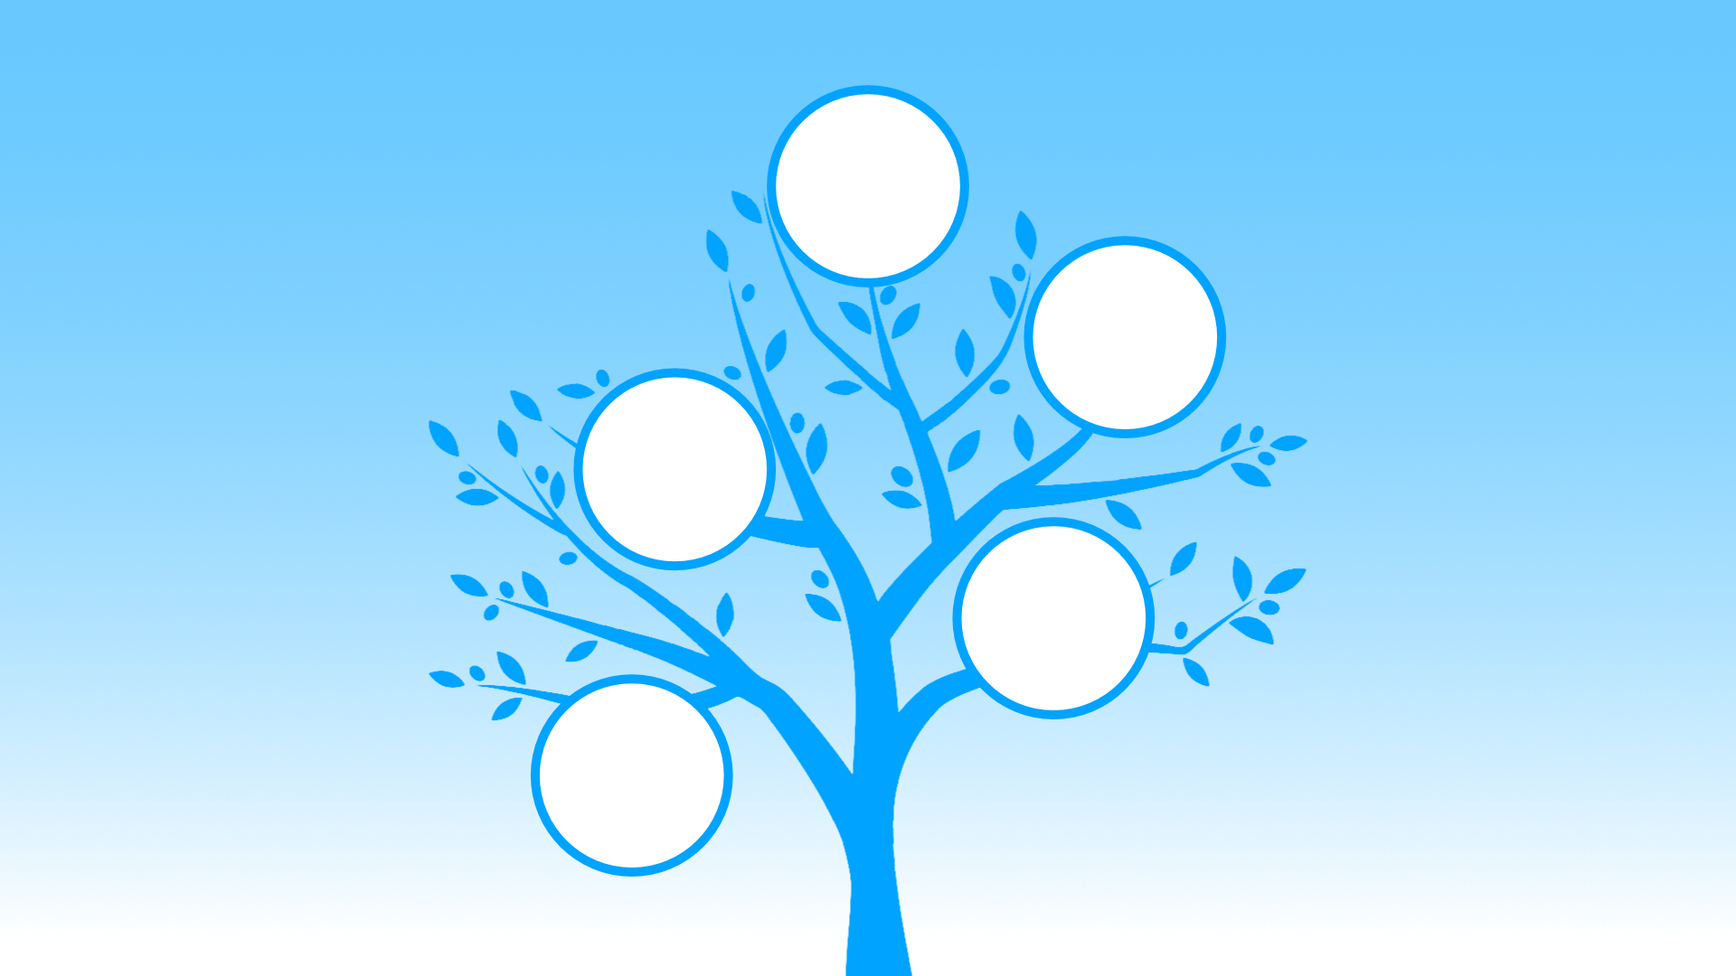
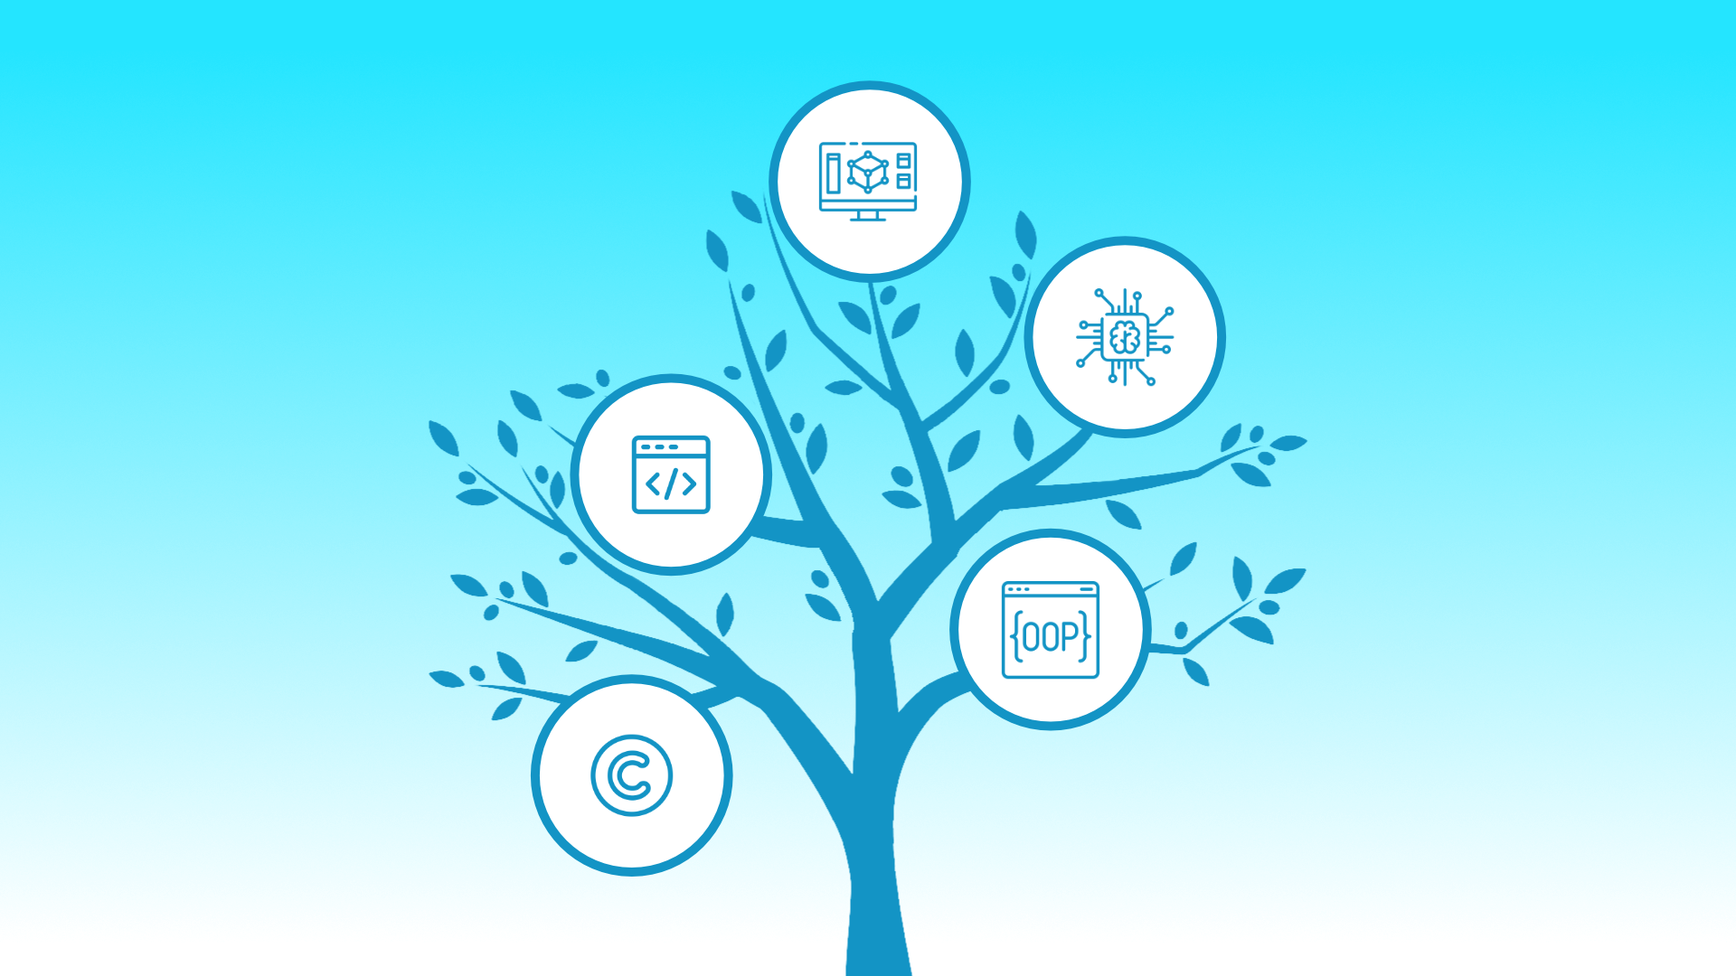
3
+frontpage -png
+computermodelling -cyber_secur

diff --git a/pages/computer_modelling.html b/pages/computer_modelling.html
@@ -1,0 +1,116 @@
+<!DOCTYPE html>
+<html lang="en">
+<head>
+	<meta charset="UTF-8">
+	<meta name="viewport" content="width=device-width, initial-scale=1.0">
+	<link rel="stylesheet" type="text/css" href="styles/2nd_floor.css">
+	<title>Cyber-security</title>
+</head>
+<body>
+	<div class="container">
+		
+		<button class="btn" onclick="document.getElementById('inf1').style.display='block';">
+			<h2>Модели и формы их представления</h2>
+		</button>
+
+		<div id="inf1" class="inf">
+			<p class="txt">
+				Модель – объект или процесс, который для различных целей рассматривается вместо другого объекта или процесса. На данный момент широко распространены компьютерные модели, представляющие собой информационную модель в виде файла на компьютерном носителе и ее изображение на экране компьютера. <br>
+				Создание и использование моделей для решения научных и практических задач называется моделированием.
+			</p>
+
+			<button class="btn1" onclick="document.getElementById('inf1').style.display='none';">Свернуть</button>
+		</div>
+
+		<button class="btn" onclick="document.getElementById('inf2').style.display='block';">
+			<h2>Цели компьютерного моделирования</h2>
+		</button>
+
+		<div id="inf2" class="inf">
+			
+			<img src="styles/img/Цели_компьютерного_моделирования.PNG" alt=""  class="im">
+
+			<button class="btn1" onclick="document.getElementById('inf2').style.display='none';">Свернуть</button>
+		</div>
+
+		<button class="btn" onclick="document.getElementById('inf3').style.display='block';">
+			<h2>Современное моделирование</h2>
+		</button>
+
+		<div id="inf3" class="inf">
+			<p class="txt">
+				В современном моделировании реализуется системных подход, состоящий в том, что моделируемый объект представляется в модели как система, т.е. совокупности объектов. Элементы системы могут быть естественными (существующие и просто выделяемые) и искусственными объектами (несуществующие условные единицы). <br>
+				Математическая модель системы называется динамической, если она учитывает изменение времени. 
+			</p>
+
+			<button class="btn1" onclick="document.getElementById('inf3').style.display='none';">Свернуть</button>
+		</div>
+
+		<button class="btn" onclick="document.getElementById('inf4').style.display='block';">
+			<h2>Элементы построения динамических моделей систем</h2>
+		</button>
+
+		<div id="inf4" class="inf">
+			
+			<img src="styles/img/Элемент_построения_динамических_моделей_систем.PNG" alt=""  class="im">
+
+			<button class="btn1" onclick="document.getElementById('inf4').style.display='none';">Свернуть</button>
+		</div>
+
+		<button class="btn" onclick="document.getElementById('inf5').style.display='block';">
+			<h2>Метод Монте-Карло</h2>
+		</button>
+
+		<div id="inf5" class="inf">
+			<p class="txt">
+				Метод Монте-Карло, названный в честь одного из самых знаменитых казино мира, основан на использовании генератора случайных чисел. Также значения генераторов случайных чисел называют псевдослучайными числами, поскольку получены они были посредством строгих математических методов и, следовательно, они являются предсказуемыми. 
+				<br>
+				На языке PascalABC генератор случайных чисел реализован в стандартной функции random(). 
+				<br>
+				В электронных таблицах MS Excel генератор случайных чисел реализован в функциях СЛЧИС() и СЛУЧМЕЖДУ(). 
+				<br>
+				Рассмотреть метод Монте-Карло на примере задачи определения площади некоторой плоской фигуры.
+				<br>
+				Пусть имеется плоская фигура, которая находится внутри прямоугольника (будем называть его базовым) с известной площадью S. Засыпем мысленно прямоугольник тончайшем слоем песка. Если подсчитать общее число песчинок n и число k тех песчинок, которые попали на фигуру, то приближенно площадь фигуры можно считать по формуле C = S * k : n, где С – площадь фигуры. 
+				<br>
+				Таким образом метод Монте-Карло освобождает нас от необходимости самим разбрасывать и подсчитывать песчинки. 
+			</p>
+
+			<button class="btn1" onclick="document.getElementById('inf5').style.display='none';">Свернуть</button>
+		</div>
+
+		<button class="btn" onclick="document.getElementById('inf6').style.display='block';">
+			<h2>Моделирование динамики численности популяций</h2>
+		</button>
+
+		<div id="inf6" class="inf">
+			<p class="txt">
+				Для описания динамики численности популяций ученые используют несколько математических моделей. Для двух популяций используются модели взаимодействия двух видов. Среди них модель «хищник-жертва», модель конкуренции двух видов за ресурсы питания, модели взаимовыгодного взаимодействия (симбиоза).
+			</p>
+
+			<img src="styles/img/Моделирование_динамики_численности.png" alt=""  class="im">
+
+			<div class="list">			
+				<ul class="sp">
+					<li class="el">a — коэффициент естественного прироста (a > 0)</li>
+					<li class="el">b — коэффициент смертности жертв от внутривидовой конкуренции (b > 0)</li>
+					<li class="el">c — коэффициент смертности жертв от хищников (c > 0)</li>
+					<li class="el">d — коэффициент смертности хищников (d > 0)</li>
+					<li class="el">f — коэффициент, определяющий прирост численности хищников (f > 0)</li>
+					<li class="el">L — критическая популяция </li>
+					<li class="el">Z — количество отловленных особей</li>
+				</ul> 
+			</div>
+
+			<button class="btn1" onclick="document.getElementById('inf6').style.display='none';">Свернуть</button>
+		</div>
+
+		<button class="btn">
+			<a href="../index.html">
+				<h2>Назад</h2>
+			</a>
+		</button>
+		
+	</div>
+</body>
+</html>

diff --git a/pages/IT-in-soc.html b/pages/IT-in-soc.html
@@ -127,7 +127,95 @@
 			<button class="btn1" onclick="document.getElementById('inf7').style.display='none';">Свернуть</button>
 		</div>
 
+		<button class="btn" onclick="document.getElementById('inf8').style.display='block';">
+			<h2>Кибербезопасность</h2>
+		</button>
 
+		<div id="inf8" class="inf">
+			<p class="txt">
+				В современном информационном обществе самым важным ресурсом являются данные. Их утечка или утеря могут создать много трудностей как рядовым пользователям, так и крупным компаниям. Именно поэтому так важно задумываться о безопасности и сохранности своих данных в сети.
+			</p>
+
+			<p class="txt">
+				Кибербезопасность — это состояние защищенности информационной инфраструктуры и содержащейся в ней информации от внешних и внутренних угроз.
+			</p>
+
+			<button class="btn1" onclick="document.getElementById('inf8').style.display='none';">Свернуть</button>
+		</div>
+
+		<button class="btn" onclick="document.getElementById('inf9').style.display='block';">
+			<h2>Кибератаки</h2>
+		</button>
+
+		<div id="inf9" class="inf">
+			<p class="txt">
+				Кибератака – умышленное воздействие на информационную структуру с помощью программ.
+			</p>
+
+			<img src="styles/img/Кибератаки.png" alt="" class="im">
+
+			<button class="btn1" onclick="document.getElementById('inf9').style.display='none';">Свернуть</button>
+		</div>
+
+		<button class="btn" onclick="document.getElementById('inf10').style.display='block';">
+			<h2>Киберустойчивость</h2>
+		</button>
+
+		<div id="inf10" class="inf">
+			<p class="txt">
+				Кибербезопасность требует грамотного обеспечения: наличия системы мер защиты информационной инфраструктуры и противодействия угрозам информационной безопасности.<br>
+				Таким образом происходит переход в состояние киберустойчивости – способности информационной инфраструктуры успешно предотвращать реализацию угроз или быстро восстанавливаться после их реализации.
+			</p>
+
+			<button class="btn1" onclick="document.getElementById('inf10').style.display='none';">Свернуть</button>
+		</div>
+
+		<button class="btn" onclick="document.getElementById('inf11').style.display='block';">
+			<h2>Итоги</h2>
+		</button>
+
+		<div id="inf11" class="inf">
+			<p class="txt">
+				Подводя итог, стоит сказать, что никакие программы и устройства не защитят вас, если злоумышленник завладеет вашим доверием, поэтому лучшая защита от кибератак – ваши осторожность и бдительность.
+			</p>
+
+			<button class="btn1" onclick="document.getElementById('inf11').style.display='none';">Свернуть</button>
+		</div>
+
+		<button class="btn" onclick="document.getElementById('inf12').style.display='block';">
+			<h2>Уязвимости</h2>
+		</button>
+
+		<div id="inf12" class="inf">
+			<p class="txt">
+				Уязвимость – свойство информационной инфраструктуры или её объектов, которое позволяет реализовать угрозу. Факторы уязвимостей приведены ниже:
+			</p>
+
+			<img src="styles/img/Факторы уязвимостей.png" alt=""  class="im">
+
+			<p class="txt">
+				Таким образом происходит переход в состояние киберустойчивости – способности информационной инфраструктуры успешно предотвращать реализацию угроз или быстро восстанавливаться после их реализации. <br>
+				Для обеспечения киберустойчивости необходимо принять следующие меры:
+			</p>	
+
+			<img src="styles/img/Меры_по_обеспечению_киберустойчивости.png" alt=""  class="im">
+
+			<button class="btn1" onclick="document.getElementById('inf12').style.display='none';">Свернуть</button>
+		</div>
+
+		<button class="btn" onclick="document.getElementById('inf13').style.display='block';">
+			<h2>Профессии, связанные с кибербезопасностью</h2>
+		</button>
+
+		<div id="inf13" class="inf">
+			<p class="txt">
+				Информационная безопасность – одно из самых перспективных направлений в сфере ИТ. Профессионалы в области кибербезопасности защищают компании от утечек данных и прочих угроз. Ниже будут представлены некоторые специализации
+			</p>
+
+			<img src="styles/img/Специализации.png" alt=""  class="im">
+
+			<button class="btn1" onclick="document.getElementById('inf13').style.display='none';">Свернуть</button>
+		</div>
 
 		<button class="btn">
 			<a href="../index.html">

diff --git a/index.html b/index.html
@@ -9,33 +9,23 @@
 <body>
 	<div class="all">
 		<div class="hrefto href1">
-			<a href="pages/cyber-secur.html" data-title="Компьютерное моделирование" class="a1">
-				<img src="pages/styles/img/svg/cyber-security.png" alt="">
-			</a>
+			<a href="pages/computer_modelling.html" data-title="Компьютерное моделирование" class="a1"><div class="a"></div></a>
 		</div>
 
 		<div class="hrefto href2">			
-			<a href="pages/IT-in-soc.html" data-title="Информационные технологии в обществе" class="a2">
-				<img src="pages/styles/img/svg/COMMUNITIES.png" alt="">
-			</a>
+			<a href="pages/IT-in-soc.html" data-title="Информационные технологии в обществе" class="a2"><div class="a"></div></a>
 		</div>
 
 		<div class="hrefto href3">
-			<a href="pages/web-design.html" data-title="Основы веб-конструирования" class="a3">
-				<img src="pages/styles/img/svg/HTML.png" alt="">
-			</a>
+			<a href="pages/web-design.html" data-title="Основы веб-конструирования" class="a3"><div class="a"></div></a>
 		</div>
 	
 		<div class="hrefto href4">
-			<a href="pages/oop.html" data-title="Введение в ООП" class="a4">
-				<img src="pages/styles/img/svg/OOP.png" alt="">
-			</a>
+			<a href="pages/oop.html" data-title="Введение в ООП" class="a4"><div class="a"></div></a>
 		</div>
 
 		<div class="hrefto href5">
-			<a href="pages/author.html" data-title="Авторы" class="a4">
-				<img src="pages/styles/img/svg/copyright.png" alt="">
-			</a>
+			<a href="pages/author.html" data-title="Авторы" class="a4"><div class="a"></div></a>
 		</div>
 	</div>
 </body>

diff --git a/pages/styles/2nd_floor.css b/pages/styles/2nd_floor.css
@@ -22,7 +22,7 @@ body {
 
     width: 100vw;
     padding: 4vh 0 4vh 0;
-    background: linear-gradient(#69c9ff,#f0f5f8);
+    background: linear-gradient(#2fe6ff,#f0f5f8);
 }
 
 .container {
@@ -75,18 +75,18 @@ h2 {
     color: #fff; 
     text-decoration: none; 
     user-select: none; 
-    background:  linear-gradient(90deg,#f0f5f8,#69c9ff,#f0f5f8);
+    background:  linear-gradient(90deg,#f0f5f8,#2fe6ff,#f0f5f8);
     outline: none; 
     border: 0px;
     padding: 4px 40px 4px 40px;
 }
-.btn1:hover { background:  linear-gradient(90deg,#f0f5f8,#89d3fd,#f0f5f8); }
+.btn1:hover { background:  linear-gradient(90deg,#f0f5f8,#5decff,#f0f5f8); }
 
 .btn {
     margin-top: 3px;
     margin-bottom: 5px;
     border: 0px;
-    background:  linear-gradient(90deg,#f0f5f8,#69c9ff,#f0f5f8);
+    background:  linear-gradient(90deg,#f0f5f8,#2fe6ff,#f0f5f8);
     justify-content: center;
     padding-left: auto;
     padding-right: auto;
@@ -95,7 +95,7 @@ h2 {
     text-align: center;
 }
 
-.btn:hover { background: linear-gradient(90deg,#f0f5f8,#89d3fd,#f0f5f8); }
+.btn:hover { background: linear-gradient(90deg,#f0f5f8,#5decff,#f0f5f8); }
 
 .txt {
     font-family: sans-serif, TeX Gyre Adventor, URW Gothic L, sans-serif;
@@ -107,6 +107,6 @@ h2 {
     color: #fff;
     padding: 4px 10px;
     margin: 15px 20px 15px 20px;
-    background: #69c9ff;
+    background: #2fe6ff;
 }
-.test:hover { background: #89d3fd; }
+.test:hover { background: #5decff; }

diff --git a/pages/styles/frontpage.css b/pages/styles/frontpage.css
@@ -21,7 +21,7 @@ html {
 body{
 	height: 100vh;
 	width: 100vw;
-	background: linear-gradient(#ffffff,#69c9ff);
+	background: linear-gradient(#ffffff,#2fe6ff);
 }
 
 .all {
@@ -32,29 +32,24 @@ body{
 	background-position: center center;
 }
 
-.hrefto {
-	height: 8%;
-	width: 8%;
-}
-
 .href1 {
-	padding: 7.5% 0 0 48.25%;
+	padding: 7vh 0 0 45.5vw;
 }
 
 .href2 {
-	padding: 3.75% 0 0 61%;
+	padding: 0 0 0 60vw;
 }
 
 .href3 {
-	padding: 2.75% 0 0 38.5%;
+	padding: 0 0 0 34vw;
 }
 
 .href4 {
-	padding: 3.75% 0 0 57.5%;
+	padding: 0 0 0 55.5vw;
 }
 
 .href5 {
-	padding: 4% 0 0 36.5%;
+	padding: 0 0 0 31.5vw;
 }
 
 a.text:active, /* активная/посещенная ссылка */
@@ -67,13 +62,18 @@ a.text {
 a:hover::after { 
 	content: attr(data-title);
 	position: absolute;
-	left: 15%; top: 30%;
+	left: 15%; top: 5%;
 	z-index: 1;
-	background: #69c9ff;
+	background: #2fe6ff;
 	font-family: Arial, sans-serif;
 	font-size: 30px;
 	padding: 5px 10px; 
-	border: 3px solid #00a3ff;
+	border: 3px solid #1394c5;
 	color: #fff;
+}
+
+.a {
+	height: 16vh;
+	width: 9vw;
 }
 
